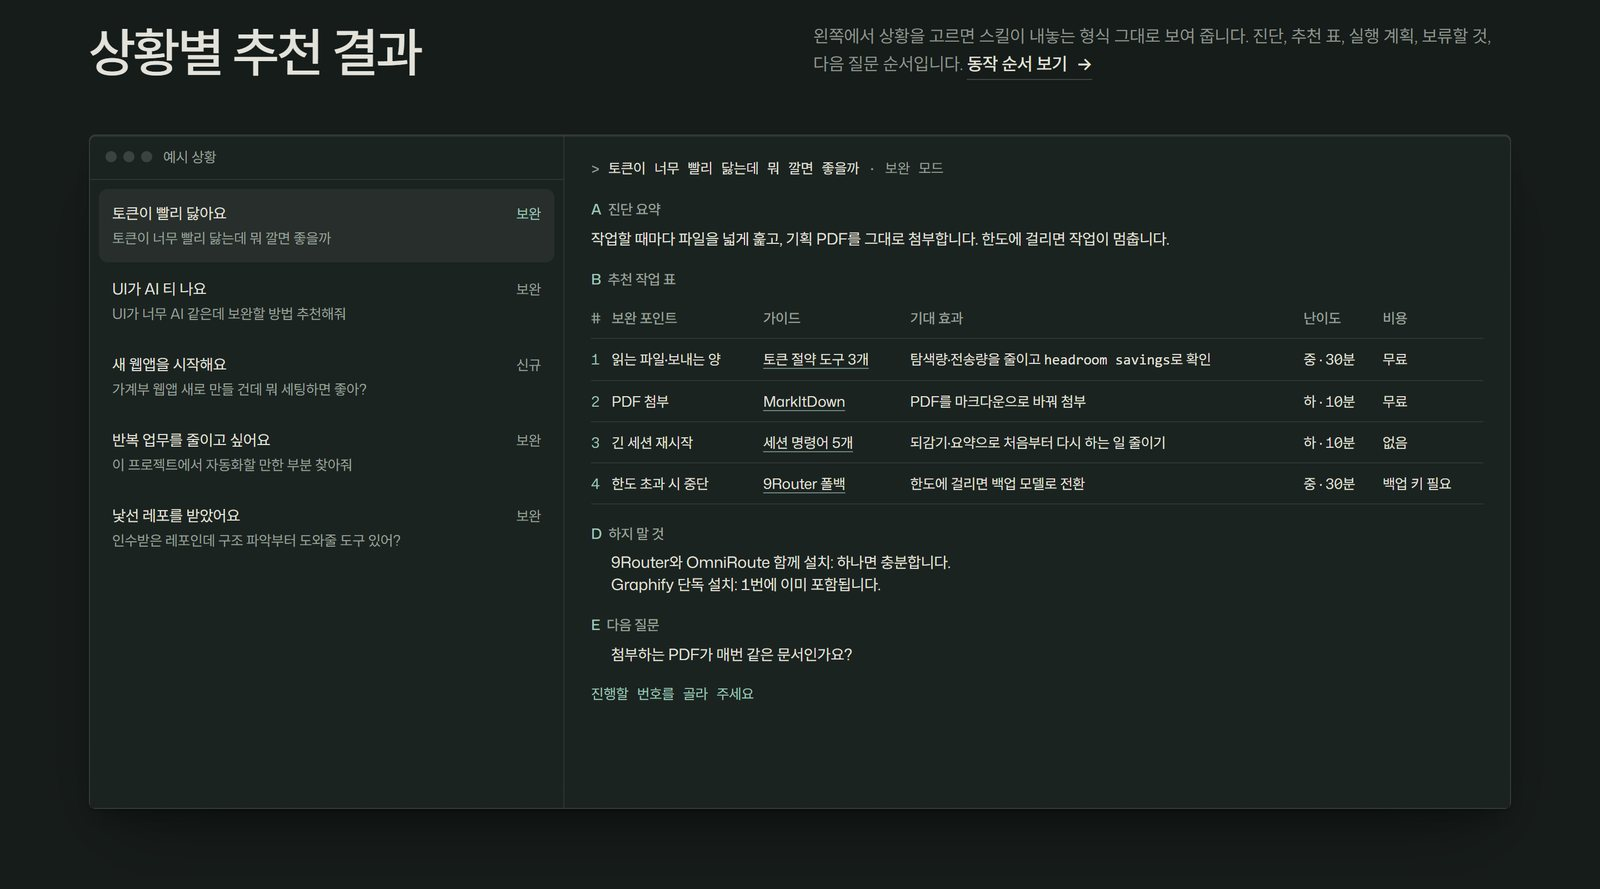
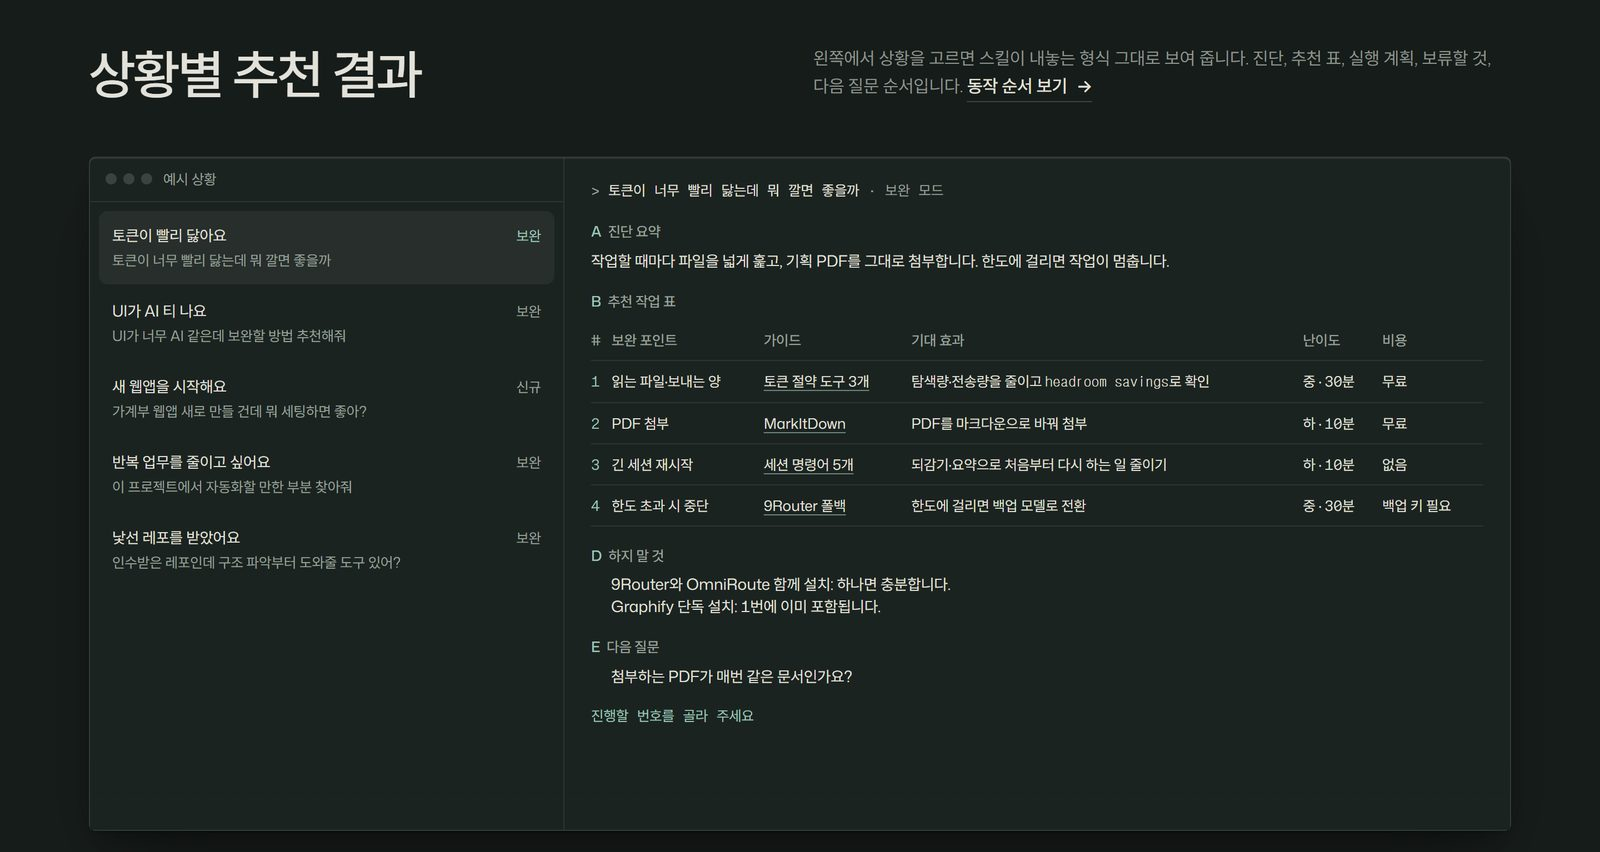
README: retake screenshots and show the three demo concepts
- hero.jpg and catalog.jpg showed the old catalog counts (46 tools,
  coding 19, automation 12); retaken from the current page (41 / 15 / 11).
  answer.jpg retaken the same way.
- Demo section: side-by-side first screens of the default page and
  concepts A and B, each linking to its live page, with a one-line note.
- Concept switcher is "at the bottom" (right side on phones).
- Repository tree lists showcase/, docs/concept-a|b/ and docs/data/.
- DESIGN.md: concept A row matches its current look, B mentions search.
- Concept NOTES record the control and menu fixes.

diff --git a/README.md b/README.md
@@ -132,7 +132,27 @@ git clone --depth 1 https://github.com/devvshyun/AIAdvisor.git ~/.claude/skills/
 
 ## 데모 페이지
 
-[devvshyun.github.io/AIAdvisor](https://devvshyun.github.io/AIAdvisor/)는 처음에 여러 디자인 스킬을 차례로 엮어 만들었습니다. 그 경험으로 웹 디자인 레시피를 "생성 스킬은 하나만" 방식으로 바꿨고, 같은 페이지를 스킬마다 따로 고친 비교는 [showcase/web-generators](showcase/web-generators/README.md)에 있습니다. 페이지 왼쪽 아래 "컨셉" 버튼으로 같은 내용을 레퍼런스 하나씩만 따라 지은 [컨셉 A](https://devvshyun.github.io/AIAdvisor/concept-a/)와 [컨셉 B](https://devvshyun.github.io/AIAdvisor/concept-b/)로 바꿔 볼 수 있습니다. 팔레트와 서체 조합, 히어로 구성은 taste-skill 키트의 스크립트로 뽑았고, 무엇이 나왔는지는 [docs/DESIGN.md](docs/DESIGN.md)에 있습니다. 카탈로그와 가이드 목록은 `scripts/build_demo.py`가 `references/`에서 만들어서, 배포할 때마다 저장소 내용과 맞춰집니다.
+[devvshyun.github.io/AIAdvisor](https://devvshyun.github.io/AIAdvisor/)에서 상황별 추천 결과, 동작 방식, 카탈로그를 직접 눌러 볼 수 있습니다. 같은 내용을 디자인만 달리해 세 벌로 만들었고, 페이지 아래쪽 "컨셉" 버튼을 누르면 보던 섹션 그대로 다른 컨셉으로 넘어갑니다.
+
+<table>
+  <tr>
+    <th width="33%">기본</th>
+    <th width="33%">컨셉 A</th>
+    <th width="33%">컨셉 B</th>
+  </tr>
+  <tr>
+    <td><a href="https://devvshyun.github.io/AIAdvisor/"><img src="docs/readme/hero.jpg" alt="기본 컨셉 첫 화면: 녹흑 바탕 가운데 정렬 제목과 대화 창" /></a></td>
+    <td><a href="https://devvshyun.github.io/AIAdvisor/concept-a/"><img src="docs/readme/concept-a.jpg" alt="컨셉 A 첫 화면: 검은 바탕에 앰버 강조가 들어간 큰 두 톤 제목과 설치 명령" /></a></td>
+    <td><a href="https://devvshyun.github.io/AIAdvisor/concept-b/"><img src="docs/readme/concept-b.jpg" alt="컨셉 B 첫 화면: 흰 바탕 왼쪽에 제목과 설치 명령, 오른쪽에 추천 4건을 준비 시간 막대로 보여 주는 패널" /></a></td>
+  </tr>
+  <tr>
+    <td>녹흑 팔레트, 한 섹션에 한 화면. 팔레트·서체·히어로 구성은 taste-skill 키트 스크립트로 뽑았습니다.</td>
+    <td>어두운 면 세 단계와 앰버 강조 하나, 큰 두 톤 제목. 제품 화면을 크게 보여 줍니다.</td>
+    <td>흰 바탕의 문서형 구성. 추천을 가로 막대로 보여 주고, 도구·가이드 검색이 있습니다.</td>
+  </tr>
+</table>
+
+기본 페이지는 처음에 여러 디자인 스킬을 차례로 엮어 만들었습니다. 그 경험으로 웹 디자인 레시피를 "생성 스킬은 하나만" 방식으로 바꿨습니다. A와 B는 각각 레퍼런스 하나만 따라 다시 지은 컨셉입니다. 같은 페이지를 스킬마다 따로 고친 비교는 [showcase/web-generators](showcase/web-generators/README.md)에, 컨셉별 디자인 기준과 확인 결과는 [docs/DESIGN.md](docs/DESIGN.md)에 있습니다. 카탈로그와 가이드 목록은 `scripts/build_demo.py`가 `references/`에서 만들기 때문에, 배포할 때마다 세 페이지가 저장소 내용과 맞춰집니다.
 
 ```bash
 python -m http.server 8000 --directory docs   # http://localhost:8000
@@ -152,8 +172,11 @@ scripts/
   build_demo.py       INDEX.md와 데모 페이지의 목록 생성 (--check: 어긋남만 확인)
   check_catalog.py    카탈로그 형식 검사, 저장소 관리 상태 확인
 evals/                skill-creator 형식의 평가 케이스
+showcase/             카탈로그 도구를 직접 돌려 본 비포·애프터
 .github/workflows/    데모 배포, 월간 카탈로그 점검
 docs/                 데모 페이지 (GitHub Pages)
+  concept-a/, concept-b/   같은 내용의 다른 디자인 컨셉
+  data/               컨셉 페이지가 읽는 카탈로그·예시 JSON
 ```
 
 </details>

diff --git a/docs/concept-b/NOTES.md b/docs/concept-b/NOTES.md
@@ -17,3 +17,8 @@
 - 컨셉 전환 버튼: `../concept-switch.js` (data-concept="b"). 파비콘은 메뉴의 A 마크를 그대로.
 - 확인: 1440×900, 375×812 가로 스크롤 0, 상황 탭 5·히어로 탭 5·분야 탭 3·주제 탭 11 모두 내용이 바뀜. 콘솔 오류는 giscus가 github.com 안내 페이지로 넘기며 생기는 것뿐(기본 페이지도 같음).
 - 점검 반영(2026-11-09): 서체를 Pretendard Variable 하나로(Inter 불러오기 삭제, 고정폭은 JetBrains Mono 그대로). 16px 미만 글자는 변수 4단계(--fs-body 15 · --fs-list 14 · --fs-sm 13 · --fs-xs 12)로, 12px 미만 없음. --faint #9a9a9a→#6a6a6a, 표 머리·kbd #777→--muted, 코드 블록 취소선 #777→--code-dim로 대비 4.5:1 이상. 추천 근거 도구 목록·가이드 목록은 처음 6개 + "전체 보기 (N개)"/"접기", 탭을 바꾸면 다시 6개. 히어로 막대는 검정 한 색(파랑 최솟값 막대 없앰, 최솟값은 굵은 값으로만), 축 눈금을 분 숫자로 바꾸고 아래에 "준비 시간(분)" 축 이름, "지금/나중에" 상황은 막대 트랙·축 없이 이름과 값만 두고 부제에 그 이유를 적음. 확인: 1440×900·375×812 가로 스크롤 0, 12px 미만 0개, 16px 미만 크기 4종(12·13·14·15), 탭 전부·전체 보기 동작, 콘솔 오류는 giscus의 github.com 프레임 차단 1건뿐.
+
+## 동작 점검(2026-11-09)
+- 장식이던 것을 실제로 동작하게: "세 단계"는 누른 단계의 출력만 보이는 탭(이전·다음 버튼, 방향키), 상단 검색은 도구 41개·가이드 78편을 찾고("/"로 열림) 도구는 추천 근거의 해당 항목으로, 가이드는 GitHub 원문으로 이동, 셸 선택은 두 설치 명령을 PowerShell용으로 바꿈, 복사 버튼은 체크 표시.
+- 히어로 "전체 답변"은 아래 추천 결과에서 같은 상황을 연다. 추천 결과 아래 버튼처럼 보이던 1·2·3·4 상자는 예시 문구로.
+- 히어로 주 버튼은 "추천 결과 보기"(#demo). 1080px 이하에서 섹션 메뉴(☰) 버튼.

diff --git a/docs/DESIGN.md b/docs/DESIGN.md
@@ -50,13 +50,13 @@
 
 ## 컨셉 A·B (2026-11-09)
 
-기본 페이지는 그대로 두고, 같은 내용을 레퍼런스 하나씩만 따라 다시 지은 페이지 두 개를 함께 둔다. 세 페이지 왼쪽 아래의 "컨셉" 버튼으로 오가며, 보던 섹션(demo, how, kit, faq, guestbook)을 이어서 연다(`docs/concept-switch.js`).
+기본 페이지는 그대로 두고, 같은 내용을 레퍼런스 하나씩만 따라 다시 지은 페이지 두 개를 함께 둔다. 세 페이지 아래쪽(데스크톱 왼쪽, 휴대폰 오른쪽)의 "컨셉" 버튼으로 오가며, 보던 섹션(demo, how, kit, faq, guestbook)을 이어서 연다(`docs/concept-switch.js`).
 
 | 컨셉 | 위치 | 레퍼런스 | 방향 |
 |---|---|---|---|
 | 기본 | `docs/index.html` | taste-skill 키트 | 녹흑 팔레트, 한 섹션 한 화면 |
-| A | `docs/concept-a/` | linear.app | 거의 검정 바탕, 조인 산세리프 제목, 제품 화면을 크게 |
-| B | `docs/concept-b/` | bun.sh | 흰 바탕, 문서형 정보 밀도, 가로 막대와 검은 코드 블록 |
+| A | `docs/concept-a/` | linear.app | 어두운 면 세 단계, 앰버 강조 하나, 큰 두 톤 제목, 제품 화면을 크게 |
+| B | `docs/concept-b/` | bun.sh | 흰 바탕, 문서형 정보 밀도, 가로 막대와 검은 코드 블록, 도구·가이드 검색 |
 
 - A·B는 레퍼런스의 구조와 리듬만 가져왔고 로고·문구·브랜드 색 조합은 쓰지 않았다. 무엇을 가져오고 뺐는지는 각 폴더의 `NOTES.md`.
 - A·B의 상황별 예시, 카탈로그, 레시피, 가이드 목록은 `docs/data/*.json`을 읽어 그린다. 이 JSON은 `scripts/build_demo.py`가 `references/`와 기본 페이지의 예시에서 만들기 때문에, 내용이 바뀌어도 세 페이지가 같은 데이터를 보여 준다.

diff --git a/docs/concept-a/NOTES.md b/docs/concept-a/NOTES.md
@@ -29,3 +29,9 @@
 - 수치 띠 46·3·82는 Pretendard 700 84px(휴대폰 48px) 앰버, 동작 방식 단계 번호 1·2·3은 JetBrains Mono 48px 회색 → 칸 오버 시 앰버.
 - 본문 줄간격 1.65, `main p` 최대 34em, 표 13→14px. #7d828b 대비: 페이지 4.9:1, 띠 면 4.7:1.
 - 확인(8796, Chrome): 1440×900·375×812 가로 스크롤 0, 제목·숫자 넘침 0, 12px 미만 0, 16px 미만 12/13/14/15 네 종, 탭·전체 보기·움직임(reveal·숫자 올리기·선택 표시) 동작, axe 위반 0, 콘솔 오류는 giscus 프레임 1건뿐. 휴대폰에서 히어로 1줄이 "프로젝트를 / 먼저 읽고,"로 두 줄이 됨(40px에서도 한 줄에 안 들어감).
+
+## 동작 점검(2026-11-09)
+- 히어로 주 버튼이 자기 자리(#install)를 가리켜 눌러도 아무 일이 없었다 → "추천 결과 보기"(#demo)로.
+- 히어로 목업 "읽은 것" 줄이 휴대폰에서 글자 단위로 세로로 쪼개지던 것: 아이콘 옆 글을 한 덩어리로 묶음.
+- 질문 머리에 방명록·GitHub 이슈 링크, 마무리 제목 `text-wrap: balance`, 추천 표 스크롤 상자에 키보드 포커스.
+- 860px 이하에서 섹션 메뉴(☰) 버튼: 링크를 누르거나 Esc·바깥을 누르면 닫히고, 넓어지면 자동으로 닫힘.
